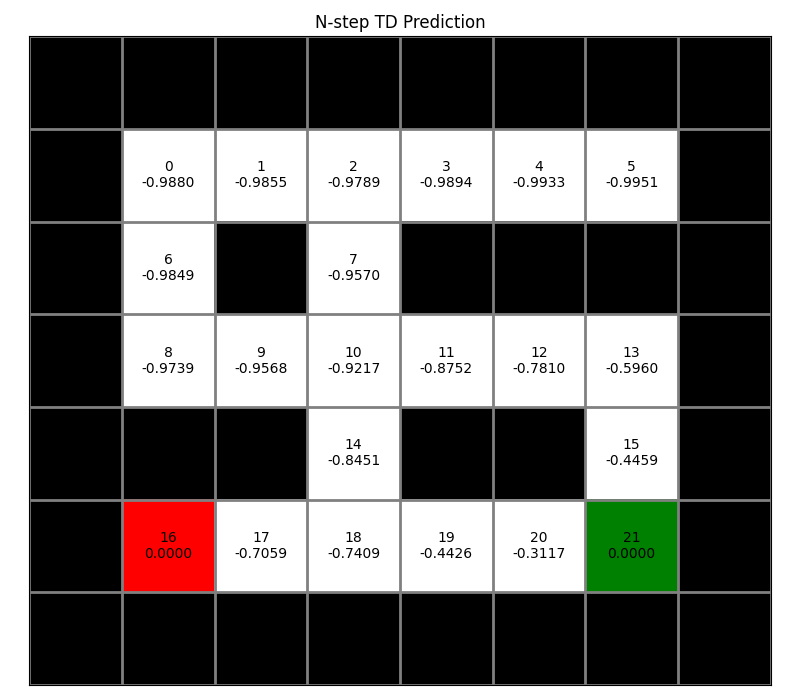
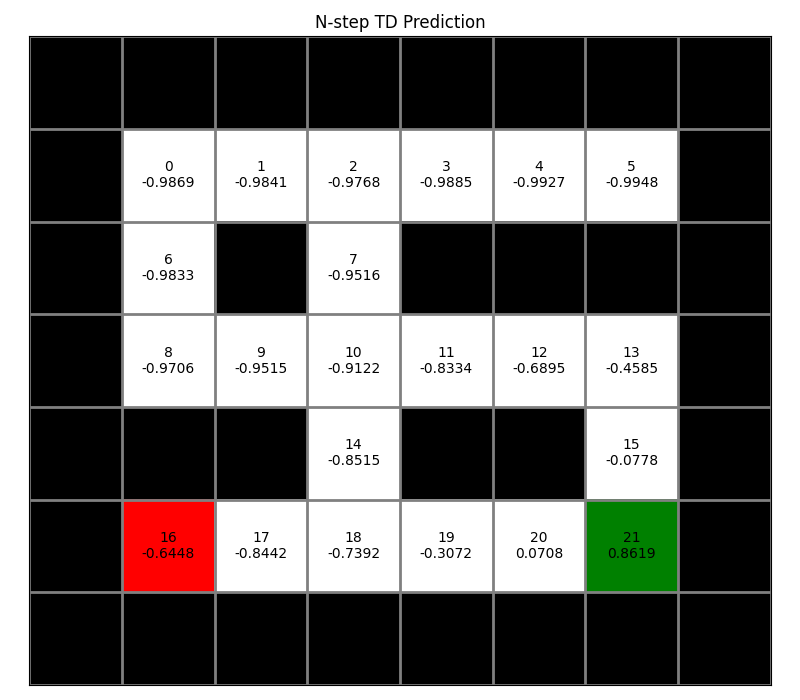
Finish NstepTD

diff --git a/rl_hw2/algorithms.py b/rl_hw2/algorithms.py
@@ -147,8 +147,7 @@ class NstepTDPrediction(ModelFreePrediction):
             S = [current_state]
             R = [0]
             T = float('inf')
-            done = False
-            while not done:
+            while True:
                 if t < T:
                     next_state, reward, done = self.collect_data()
                     S.append(next_state)
